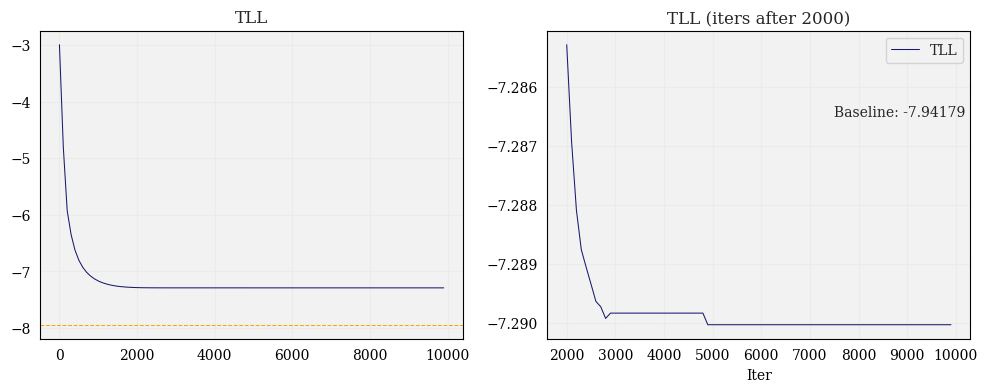
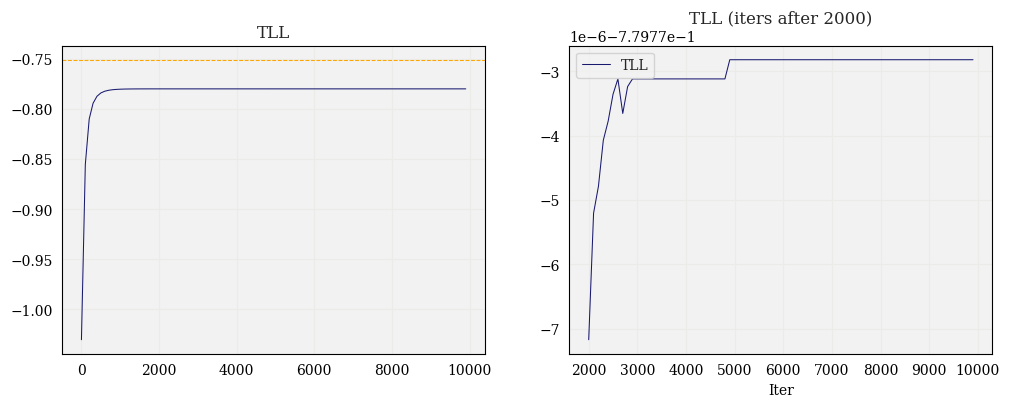
Fix TLL eval

diff --git a/code/utils/misc.py b/code/utils/misc.py
@@ -105,14 +105,15 @@ def smiles_to_fp(smiles: str, fp_type: str = 'ecfp', sparse=True, fpSize=2048, r
 
 
 
-def test_log_likelihood(smiles_test, mean, covar):
+def test_log_likelihood(smiles_test, mean, covar, y_test=None):
     """
     Evaluates test log-likelihood given target SMILES strings, mean, and full covariance matrix
     """
+
+    if y_test is None:
+        y_test = jnp.array([Crippen.MolLogP(Chem.MolFromSmiles(s)) for s in smiles_test])
     
-    y_test_logp = jnp.array([Crippen.MolLogP(Chem.MolFromSmiles(s)) for s in smiles_test])
-    
-    return multivariate_normal.logpdf(y_test_logp, mean=mean, cov=covar)
+    return multivariate_normal.logpdf(y_test, mean=mean, cov=covar)
 
 
 
